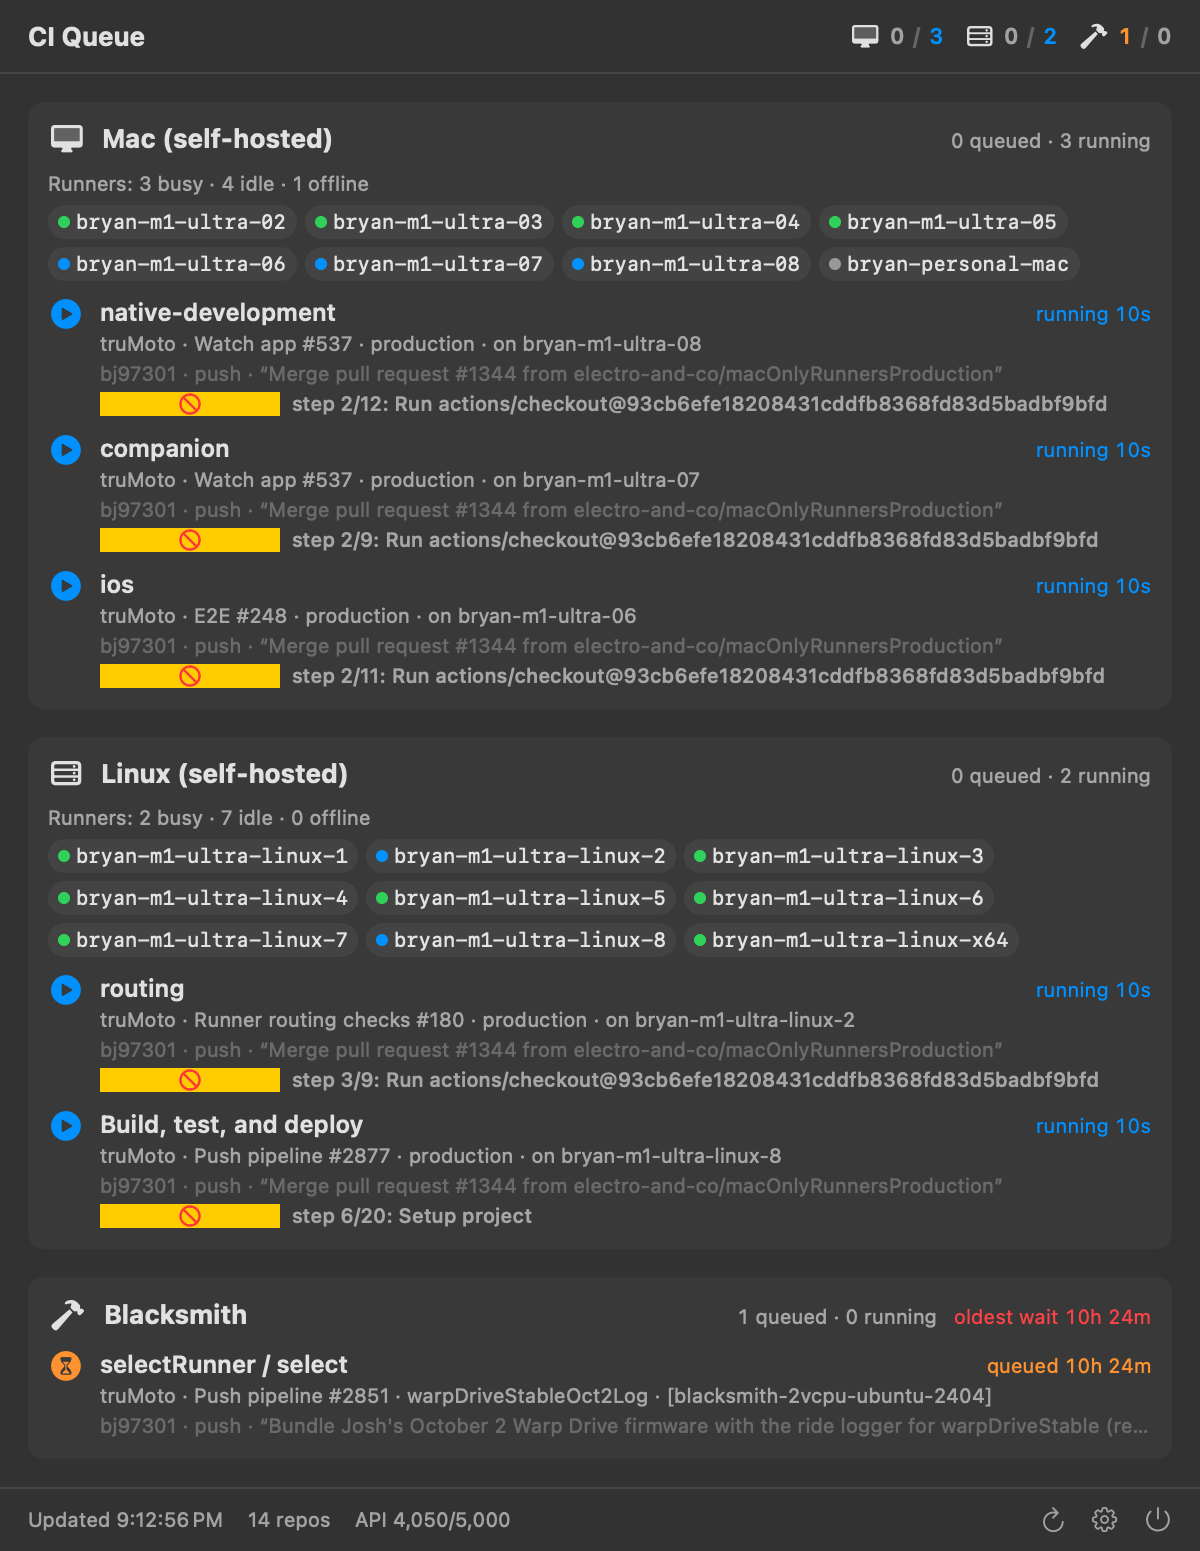
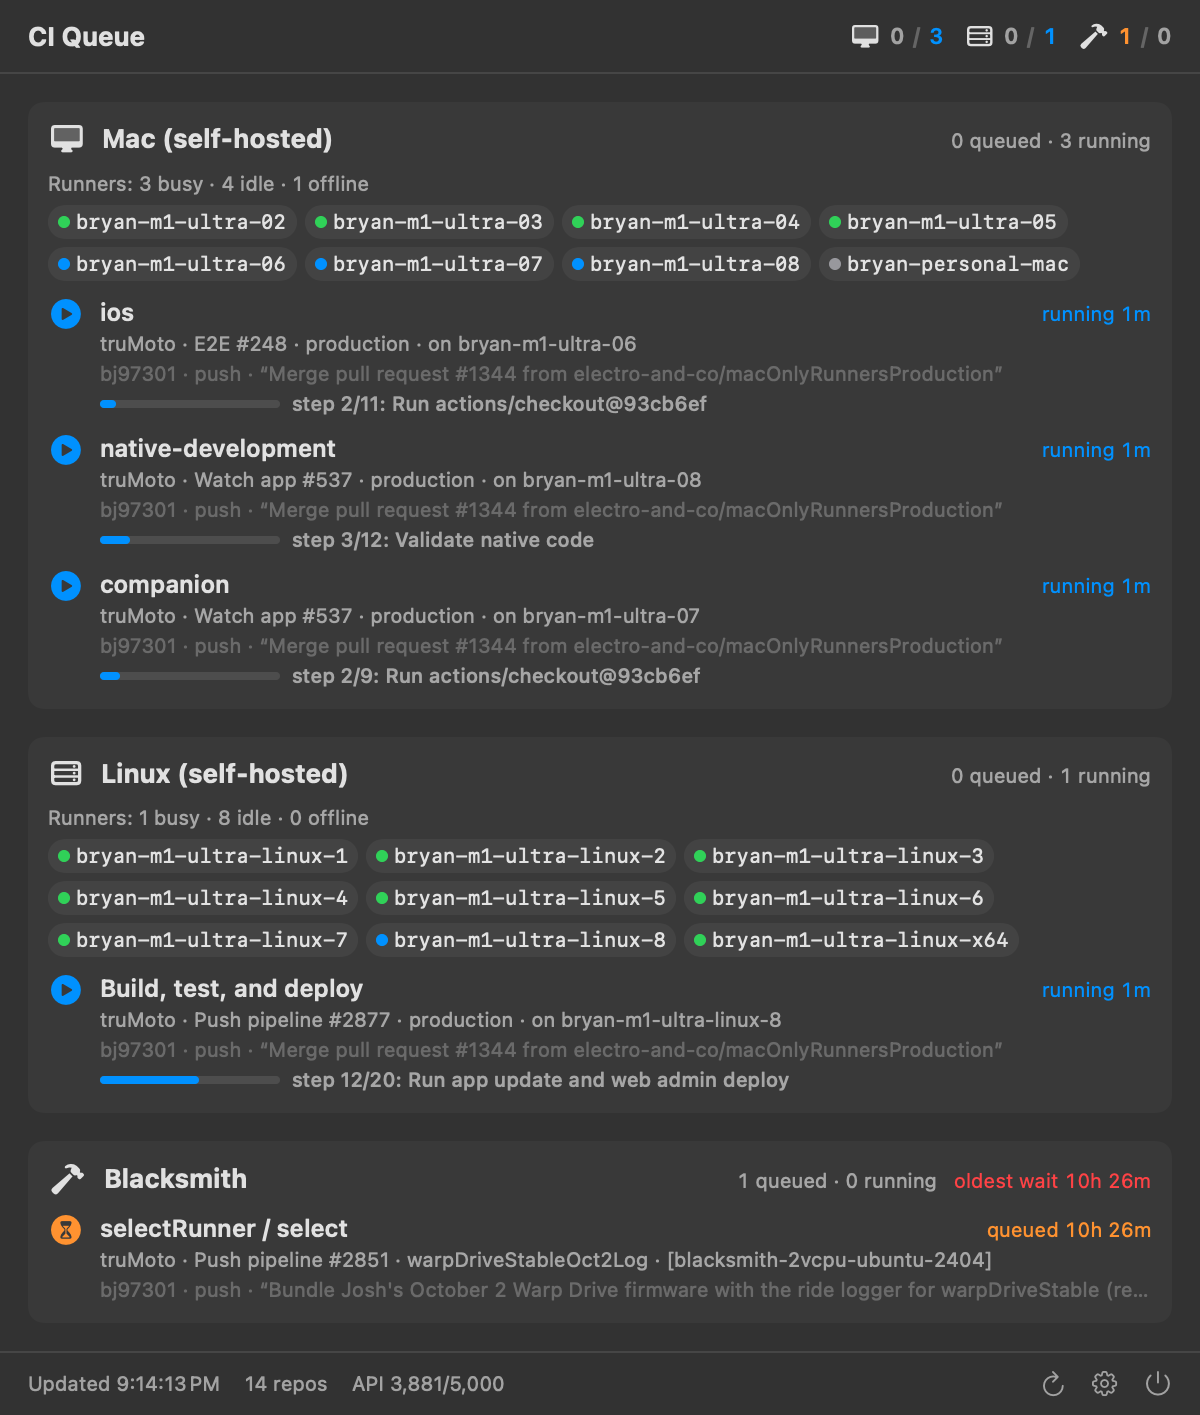
Custom step bars, shorter step names, one runs call per repo, 60s refresh

diff --git a/Sources/CIQueueBar/PanelView.swift b/Sources/CIQueueBar/PanelView.swift
@@ -165,9 +165,13 @@ struct JobRow: View {
                     }
                     if let p = job.steps, job.isRunning {
                         HStack(spacing: 6) {
-                            ProgressView(value: Double(p.done), total: Double(max(p.total, 1)))
-                                .progressViewStyle(.linear).frame(width: 90).controlSize(.mini)
-                            Text("step \(min(p.done + 1, p.total))/\(p.total)\(p.current.map { ": \($0)" } ?? "")")
+                            ZStack(alignment: .leading) {
+                                Capsule().fill(Color.primary.opacity(0.12))
+                                Capsule().fill(Color.blue)
+                                    .frame(width: 90 * CGFloat(p.done) / CGFloat(max(p.total, 1)))
+                            }
+                            .frame(width: 90, height: 4)
+                            Text("step \(min(p.done + 1, p.total))/\(p.total)\(p.current.map { ": \(tidyStep($0))" } ?? "")")
                                 .font(.caption2).foregroundStyle(.secondary).lineLimit(1)
                         }
                     }
@@ -225,4 +229,9 @@ struct FlowLayout: Layout {
             x += sz.width + spacing; rowH = max(rowH, sz.height)
         }
     }
+}
+
+/// "Run actions/checkout@93cb6efe…" -> "Run actions/checkout@93cb6ef"
+func tidyStep(_ s: String) -> String {
+    s.replacingOccurrences(of: "@([0-9a-f]{7})[0-9a-f]{33}", with: "@$1", options: .regularExpression)
 }

diff --git a/Sources/CIQueueBar/GitHub.swift b/Sources/CIQueueBar/GitHub.swift
@@ -66,11 +66,10 @@ final class GitHubClient: @unchecked Sendable {
     func activeJobs(repo: String) async throws -> [Job] {
         var runs: [[String: Any]] = []
         var seen = Set<Int>()
-        for status in ["queued", "in_progress", "waiting", "pending"] {
-            let obj = try await get("/repos/\(repo)/actions/runs?status=\(status)&per_page=50") as? [String: Any]
-            for r in obj?["workflow_runs"] as? [[String: Any]] ?? [] {
-                if let id = r["id"] as? Int, seen.insert(id).inserted { runs.append(r) }
-            }
+        // One call per repo: newest runs, keep the unfinished ones.
+        let obj = try await get("/repos/\(repo)/actions/runs?per_page=60") as? [String: Any]
+        for r in obj?["workflow_runs"] as? [[String: Any]] ?? [] where (r["status"] as? String) != "completed" {
+            if let id = r["id"] as? Int, seen.insert(id).inserted { runs.append(r) }
         }
         var jobs: [Job] = []
         for run in runs {

diff --git a/Sources/CIQueueBar/main.swift b/Sources/CIQueueBar/main.swift
@@ -20,7 +20,7 @@ final class AppDelegate: NSObject, NSApplicationDelegate {
             onConfig: { [weak self] in self?.openConfig() },
             onQuit: { NSApp.terminate(nil) }))
         refresh()
-        let interval = max(15, Config.load().refreshSeconds ?? 45)
+        let interval = max(15, Config.load().refreshSeconds ?? 60)
         timer = Timer.scheduledTimer(withTimeInterval: interval, repeats: true) { [weak self] _ in
             Task { @MainActor in self?.refresh() }
         }

diff --git a/README.md b/README.md
@@ -35,7 +35,7 @@ Optional `~/.config/ciqueuebar/config.json`:
   "repos": ["owner/repo", "org/other"],
   "recentDays": 2,
   "maxRepos": 25,
-  "refreshSeconds": 45
+  "refreshSeconds": 60
 }
 ```
 
